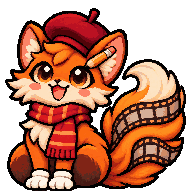
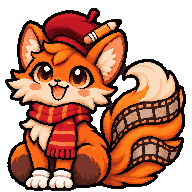
Pets: the ancient fox's pencil tucked into its beret, out of its ear

diff --git a/tools/art_prompts.py b/tools/art_prompts.py
@@ -16,7 +16,7 @@ PETS = [
      "Baby: a tiny kitten with a little torch-light in its paws. Young: a small grey fedora – it sits with its two white front paws side by side on the ground and its hind legs folded out of sight, so exactly two paws show at the bottom. Adult: a trench-coat collar and the fedora tipped low, a cinema ticket tucked in the hat band. Ancient: a long trench coat, silver whiskers, a pocket watch chain and a tiny magnifying glass hanging from that chain – it holds nothing, both front paws rest on the ground side by side.",
      "Slate blue-grey fur, white muzzle, pink inner ears, charcoal fedora with a red band."),
     ("fox", "A cute fluffy orange fox, a cartoon animator with a big white-tipped tail.",
-     "Baby: a tiny fox kit holding a pencil stub. Young: white cartoon gloves. Adult: a striped scarf and a little film strip coiled round its tail. Ancient: a flowing tail with film-frame pattern, a beret and a golden pencil behind its ear. From Young on it wears the white gloves on its two front paws, which rest side by side on the ground; it sits on its hind legs folded under its body and hidden by its fur, so only the two gloved paws show at the bottom – no brown feet below or beside them.",
+     "Baby: a tiny fox kit holding a pencil stub. Young: white cartoon gloves. Adult: a striped scarf and a little film strip coiled round its tail. Ancient: a flowing tail with film-frame pattern, a beret with a golden pencil tucked into its edge, lying along the top of the beret and pointing up and back – never in or on the ear, never across the face. From Young on it wears the white gloves on its two front paws, which rest side by side on the ground; it sits on its hind legs folded under its body and hidden by its fur, so only the two gloved paws show at the bottom – no brown feet below or beside them.",
      "Bright orange fur, cream belly and tail tip, dark brown legs, white gloves, red scarf."),
     ("owl", "A round fluffy owl, a film critic with large ivory face discs.",
      "Baby: a grey-brown owlet with huge eyes. Young: tiny round reading glasses. Adult: a striped critic's scarf and a little notebook under its wing. Ancient: bushy white eyebrows, gold-rimmed glasses and a tiny golden statuette pin on its chest.",
